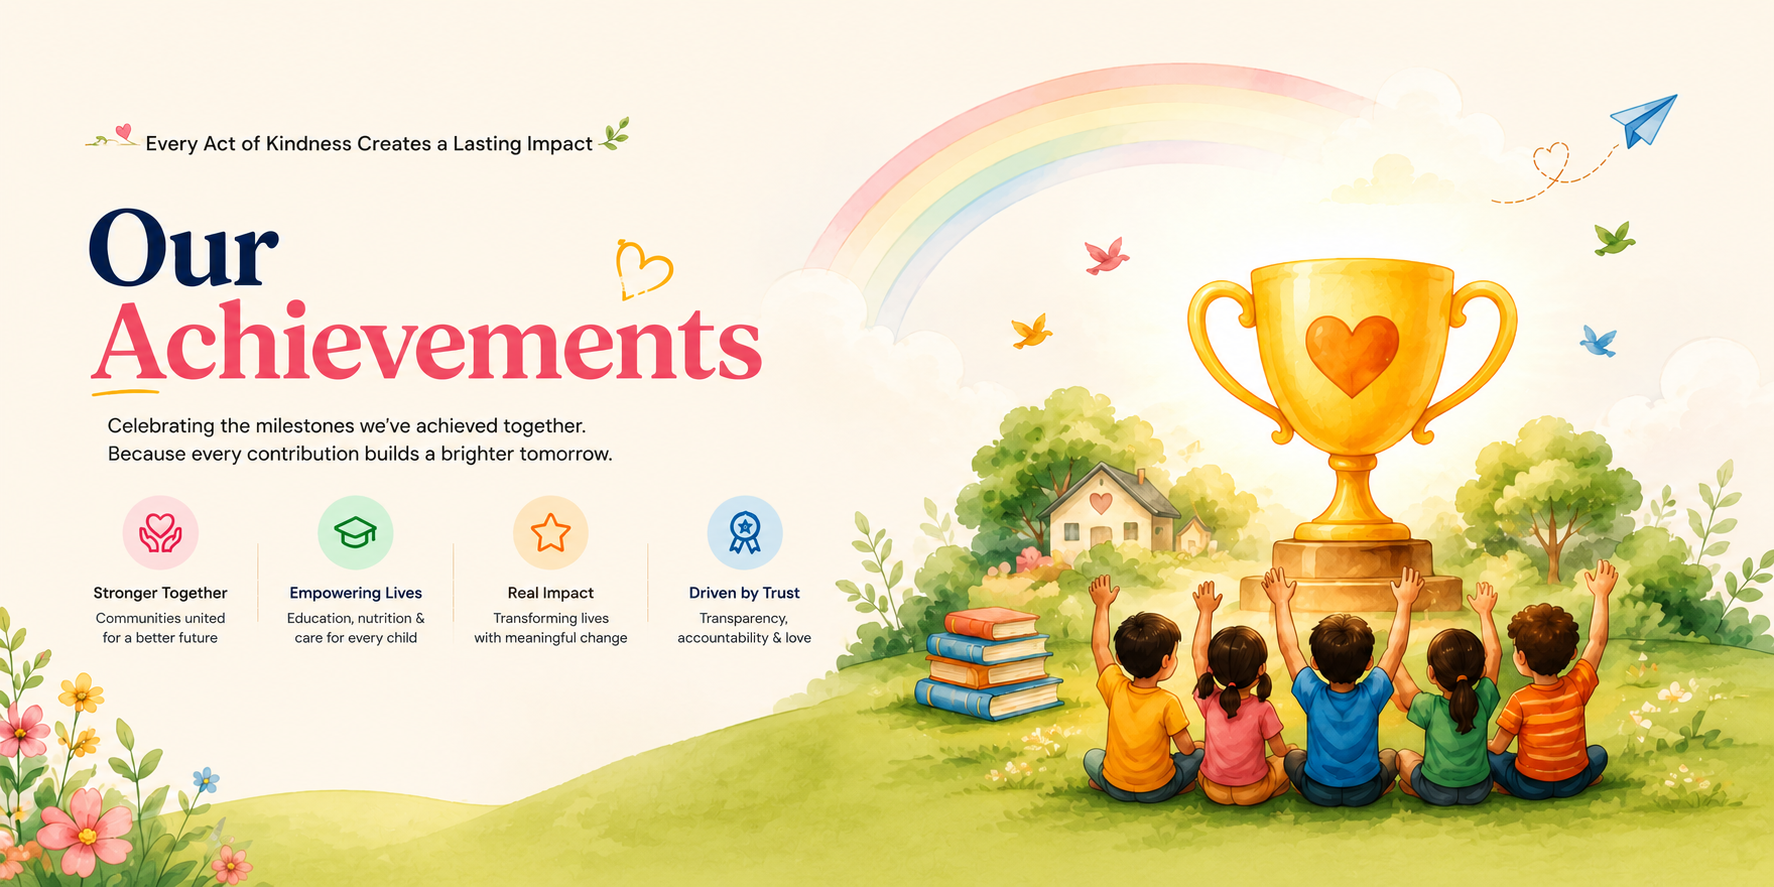
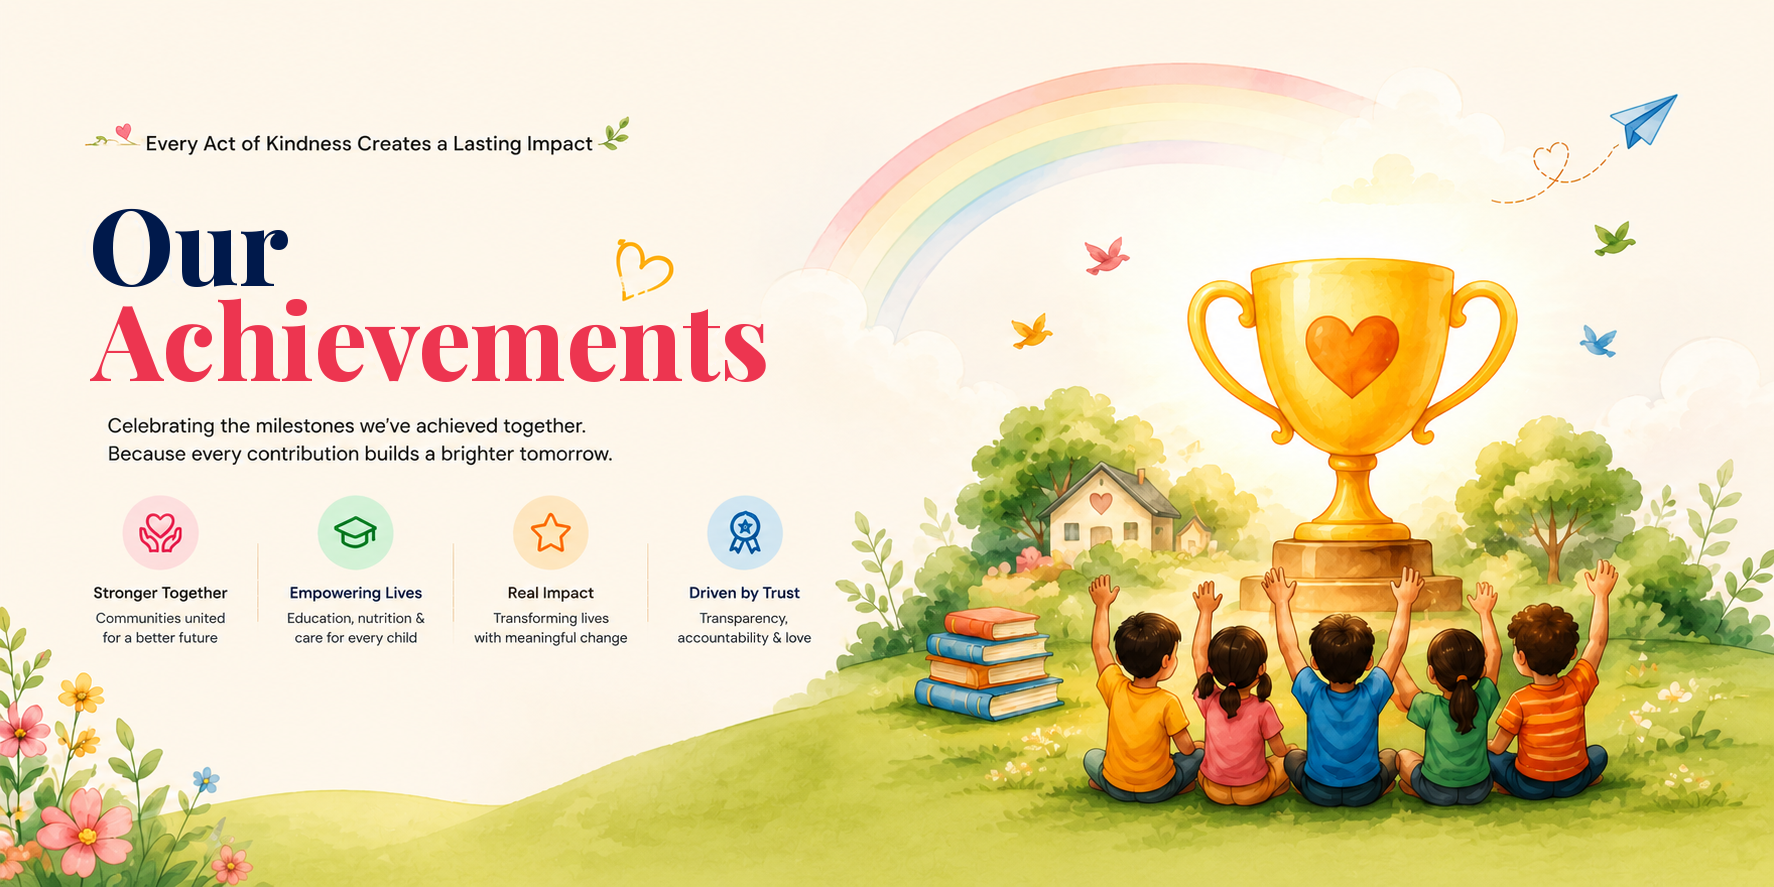
Fix heading font on Achievements page to match theme (Playfair Display)

Changed region(s): [[0.031, 0.2131, 0.434, 0.4566]]

diff --git a/frontend/src/components/achievements/AchievementsGrid.jsx b/frontend/src/components/achievements/AchievementsGrid.jsx
@@ -33,17 +33,17 @@ export const AchievementsGrid = () => {
   };
 
   return (
-    <section className="relative w-full py-14 lg:py-20 px-4 sm:px-6 lg:px-8 bg-slate-50/50 overflow-hidden">
+    <section className="relative w-full py-16 lg:py-24 px-4 sm:px-6 lg:px-8 overflow-hidden bg-[#FFF8F1]">
       <div className="absolute top-0 left-1/4 w-96 h-96 bg-orange-200/30 rounded-full blur-3xl pointer-events-none" />
       <div className="absolute bottom-0 right-1/4 w-96 h-96 bg-amber-100/40 rounded-full blur-3xl pointer-events-none" />
 
       <div className="relative mx-auto max-w-7xl">
-        <div className="text-center max-w-3xl mx-auto mb-14 space-y-4">
+        <div className="text-center max-w-3xl mx-auto mb-12 space-y-5">
           <div className="inline-flex items-center gap-2 px-3.5 py-1.5 rounded-full bg-orange-100/80 text-orange-700 text-xs font-bold tracking-wide uppercase">
             <span className="w-2 h-2 rounded-full bg-orange-500 animate-pulse" />
             Transparent Impact
           </div>
-          <h2 className="text-4xl sm:text-5xl font-black text-slate-900 tracking-tight">
+          <h2 className="font-display text-4xl sm:text-5xl font-black text-slate-900 tracking-tight">
             Our Track Record
           </h2>
           <p className="text-lg text-slate-600 font-normal leading-relaxed">
@@ -51,7 +51,7 @@ export const AchievementsGrid = () => {
           </p>
         </div>
 
-        <div className="grid grid-cols-1 sm:grid-cols-2 lg:grid-cols-4 gap-6">
+        <div className="grid grid-cols-1 sm:grid-cols-2 lg:grid-cols-4 gap-7">
           {achievements.map((item, index) => {
             const Icon = item.icon;
             const TagIcon = item.badgeIcon || CheckCircle2;
@@ -62,12 +62,12 @@ export const AchievementsGrid = () => {
             return (
               <div
                 key={index}
-                className={`group relative flex flex-col justify-between p-7 rounded-3xl transition-all duration-300 border overflow-hidden ${
+                className={`group relative flex flex-col justify-between p-7 rounded-3xl transition-all duration-500 ease-out hover:scale-[1.02] border overflow-hidden ${
                   item.isPlatinum
                     ? "border-amber-300 bg-gradient-to-br from-amber-100/80 via-amber-50/40 to-white shadow-lg shadow-amber-500/15 hover:shadow-xl hover:shadow-amber-500/25 hover:-translate-y-1.5"
                     : item.featured
                     ? "border-orange-200 bg-gradient-to-br from-orange-50/60 via-white to-white shadow-md hover:shadow-xl hover:border-orange-300 hover:-translate-y-1.5"
-                    : "bg-white border-slate-100 shadow-sm hover:shadow-lg hover:border-slate-200 hover:-translate-y-1.5"
+                    : "bg-[#FFFDF9] border-orange-100 shadow-xl shadow-orange-100/20 hover:shadow-2xl hover:shadow-orange-200/25 hover:border-orange-300 hover:-translate-y-2"
                 }`}
               >
                 {/* Top accent bar for special cards */}
@@ -85,7 +85,7 @@ export const AchievementsGrid = () => {
 
                 <div className="relative">
                   <div className="flex items-center justify-between mb-6">
-                    <div className={`w-12 h-12 rounded-2xl flex items-center justify-center transition-transform group-hover:scale-110 group-hover:rotate-3 ${iconStyle}`}>
+                    <div className={`w-14 h-14 rounded-3xl flex items-center justify-center transition-transform group-hover:scale-110 group-hover:rotate-3 ${iconStyle}`}>
                       <Icon className="w-6 h-6 stroke-[2.2]" />
                     </div>
                     <span className={`inline-flex items-center gap-1.5 px-3 py-1 rounded-full text-[11px] font-semibold tracking-wide ${
@@ -97,7 +97,7 @@ export const AchievementsGrid = () => {
                   </div>
 
                   <div className="space-y-1">
-                    <div className={`text-4xl lg:text-[42px] font-black tracking-tight ${
+                    <div className={`text-5xl lg:text-[48px] font-black tracking-tight ${
                       item.isPlatinum ? "text-amber-900" : "text-slate-900"
                     }`}>
                       {item.number}
